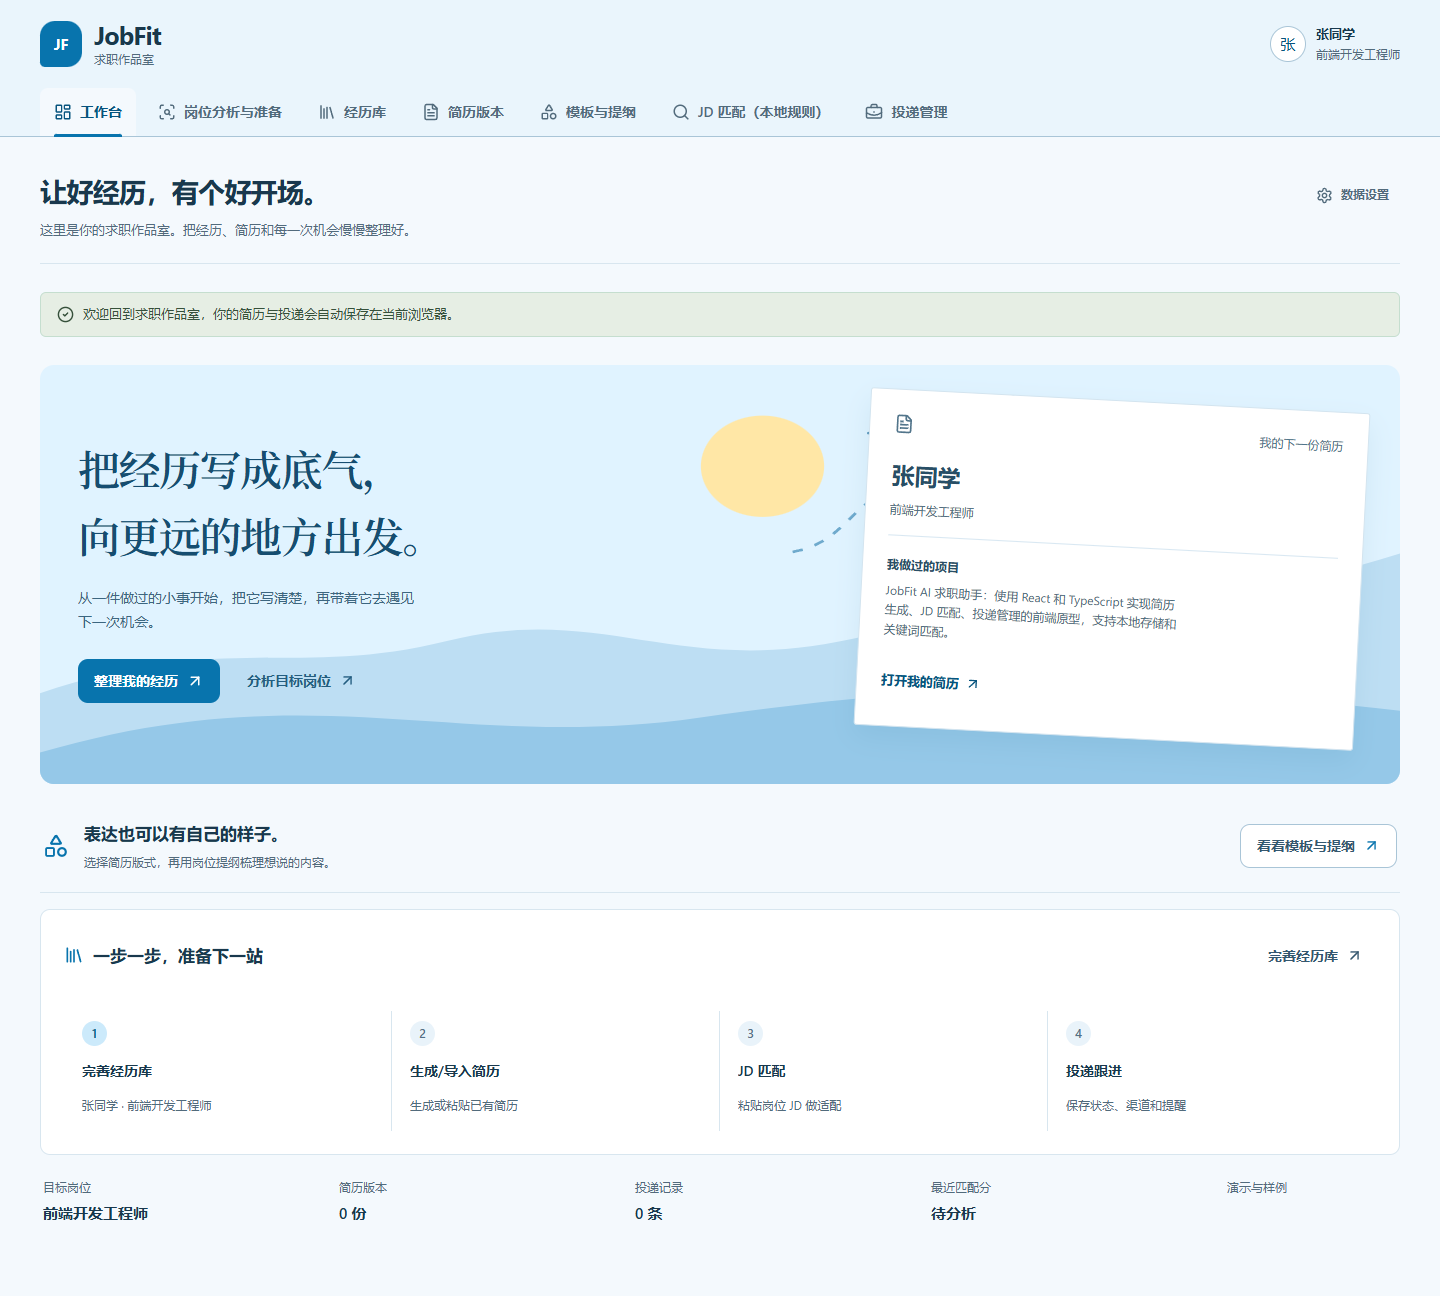
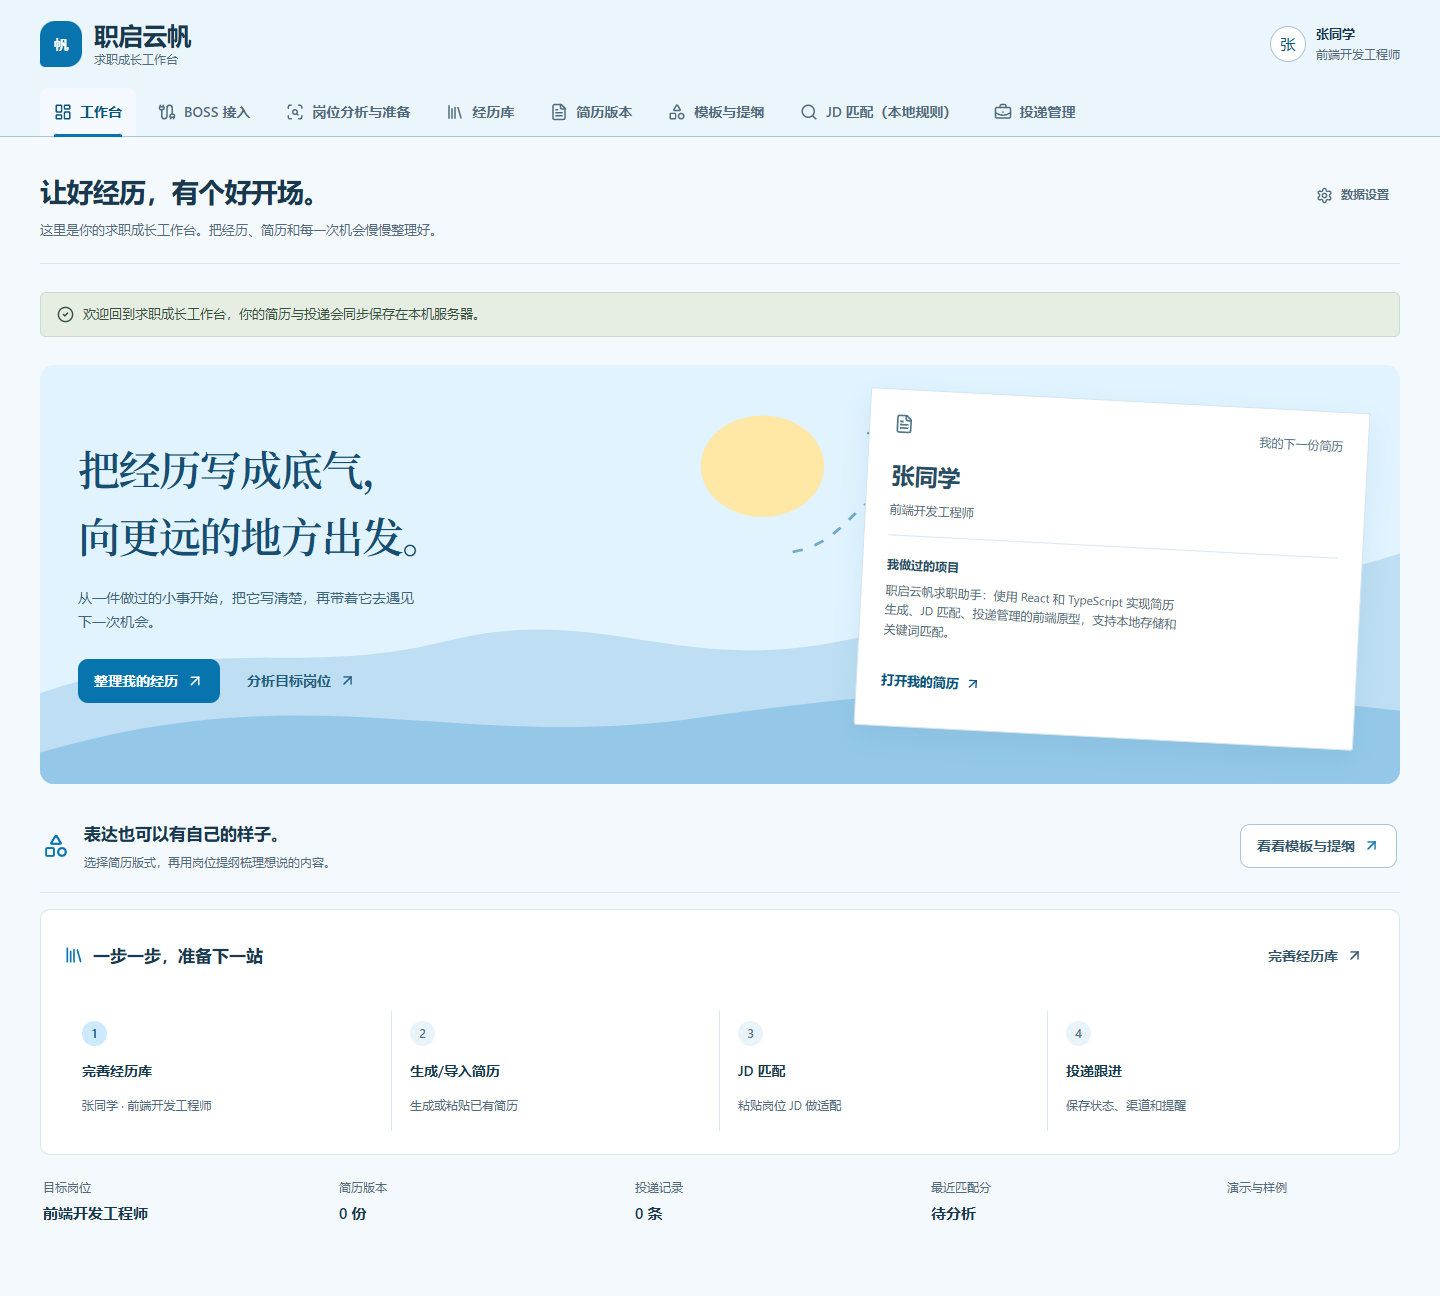
refactor: rebrand product as Zhiqi Yunfan

diff --git a/frontend/src/App.tsx b/frontend/src/App.tsx
@@ -119,7 +119,7 @@ export default function App() {
   const [renameDraft, setRenameDraft] = useState("");
   const [message, setMessageState] = useState<AppMessage | undefined>({
     id: 0,
-    text: "欢迎回到求职作品室，你的简历与投递会同步保存在本机服务器。",
+    text: "欢迎回到求职成长工作台，你的简历与投递会同步保存在本机服务器。",
     type: "success",
   });
 
@@ -144,7 +144,7 @@ export default function App() {
         markWorkspaceDirty(workspaceRevision.current);
       }
     } catch (error) {
-      console.error("Failed to save local JobFit data", error);
+      console.error("Failed to save local 职启云帆 data", error);
       setMessage("本地保存失败：浏览器存储可能已满、被隐私模式限制，或简历文本过长。请先导出数据备份。", "error");
     }
   }, [applications, profile, resumes]);
@@ -983,7 +983,7 @@ export default function App() {
     const url = URL.createObjectURL(blob);
     const link = document.createElement("a");
     link.href = url;
-    link.download = `jobfit-ai-backup-${new Date().toISOString().slice(0, 10)}.json`;
+    link.download = `zhiqi-yunfan-backup-${new Date().toISOString().slice(0, 10)}.json`;
     link.click();
     window.setTimeout(() => URL.revokeObjectURL(url), 1000);
     setMessage("已导出本地数据备份 JSON。换浏览器或换电脑时，可用它恢复经历库、简历版本和投递记录。");
@@ -1014,7 +1014,7 @@ export default function App() {
       navigateTo("workspace");
       setMessage("已导入数据备份，并完成结构校验。");
     } catch {
-      setMessage("导入失败：请选择有效的 JobFit AI JSON 备份文件。", "error");
+      setMessage("导入失败：请选择有效的职启云帆 JSON 备份文件。", "error");
     }
   }
 
@@ -1042,7 +1042,7 @@ export default function App() {
   }
 
   const pageCopy: Record<TabId, { title: string; description: string }> = {
-    workspace: { title: "让好经历，有个好开场。", description: "这里是你的求职作品室。把经历、简历和每一次机会慢慢整理好。" },
+    workspace: { title: "让好经历，有个好开场。", description: "这里是你的求职成长工作台。把经历、简历和每一次机会慢慢整理好。" },
     integration: { title: "把 BOSS 里的机会，带回自己的桌面。", description: "安装扩展、配置个人 API，再把当前页面可见的职位带入本机匹配和跟进流程。" },
     agent: { title: "把目标岗位，看得更清楚。", description: "从岗位要求到真实经历，找到值得表达的优势和下一步准备方向。" },
     profile: { title: "先把做过的事，写下来。", description: "课程项目、实习和个人作品，都是你自己的素材。" },
@@ -1089,7 +1089,7 @@ export default function App() {
     return (
       <div className="app-shell workspace-loading-shell">
         <main className="workspace-loading" role="status" aria-live="polite">
-          <div className="workspace-loading__mark">JF</div>
+          <div className="workspace-loading__mark">帆</div>
           <strong>正在恢复你的求职工作区</strong>
           <p>从本机服务器读取简历、职位和投递记录；如果服务器不可用，将自动使用浏览器缓存。</p>
           <span className="workspace-loading__bar" aria-hidden="true" />
@@ -1104,13 +1104,13 @@ export default function App() {
       <header className="site-header">
         <div className="site-header__identity">
         <div className="brand-lockup">
-          <div className="brand-mark">JF</div>
+          <div className="brand-mark">帆</div>
           <div>
-            <strong>JobFit</strong>
-            <span>求职作品室</span>
+            <strong>职启云帆</strong>
+            <span>求职成长工作台</span>
           </div>
         </div>
-        <div className="header-person"><span>{(profile.name || "我").slice(0, 1)}</span><div><strong>{profile.name || "我的作品室"}</strong><small>{profile.targetRole || "下一站，正在准备"}</small></div></div>
+        <div className="header-person"><span>{(profile.name || "我").slice(0, 1)}</span><div><strong>{profile.name || "我的工作台"}</strong><small>{profile.targetRole || "下一站，正在准备"}</small></div></div>
         <button className="nav-toggle secondary-button" type="button" aria-label={navExpanded ? "收起导航" : "展开导航"} aria-expanded={navExpanded} aria-controls="primary-navigation" onClick={() => setNavExpanded((open) => !open)}>
           {navExpanded ? <X size={20} /> : <Menu size={20} />}<span>导航</span>
         </button>

diff --git a/extension/background.js b/extension/background.js
@@ -64,14 +64,14 @@ function pickNumber(body, keys) {
 }
 
 function serviceError(body, status) {
-  if (!body) return `JobFit 服务返回 HTTP ${status}，响应为空。`;
+  if (!body) return `职启云帆服务返回 HTTP ${status}，响应为空。`;
   if (Array.isArray(body.detail)) {
     return body.detail.map((item) => item.msg || JSON.stringify(item)).join("；");
   }
   const detail = body.detail || body.error || body.message;
   if (typeof detail === "string" && detail.trim()) return detail.trim();
   if (detail && typeof detail === "object") return JSON.stringify(detail);
-  return `JobFit 服务返回 HTTP ${status}。`;
+  return `职启云帆服务返回 HTTP ${status}。`;
 }
 
 async function requestJson(url, options) {
@@ -80,7 +80,7 @@ async function requestJson(url, options) {
     response = await fetch(url, options);
   } catch (error) {
     const reason = error && error.message ? error.message : String(error);
-    throw new Error(`无法连接 JobFit 服务（${reason}）。请确认服务已启动且地址正确。`);
+    throw new Error(`无法连接 职启云帆服务（${reason}）。请确认服务已启动且地址正确。`);
   }
   const body = await readResponse(response);
   if (!response.ok) {
@@ -98,7 +98,7 @@ async function testHealth(message) {
   });
   return {
     ok: true,
-    message: "JobFit 服务连接正常。",
+    message: "职启云帆服务连接正常。",
     latencyMs: Date.now() - started,
     service: body
   };
@@ -132,7 +132,7 @@ async function collectPage(tab) {
   });
   const results = await chrome.scripting.executeScript({
     target: { tabId: tab.id },
-    func: () => globalThis.JobFitBossCollector?.collect()
+    func: () => globalThis.ZhiqiYunfanBossCollector?.collect()
   });
   return results && results[0] ? results[0].result : null;
 }
@@ -177,9 +177,9 @@ chrome.runtime.onMessage.addListener((message, _sender, sendResponse) => {
   if (!message || typeof message.type !== "string") return false;
 
   let operation;
-  if (message.type === "JOBFIT_TEST_HEALTH") {
+  if (message.type === "YUNFAN_TEST_HEALTH") {
     operation = testHealth(message);
-  } else if (message.type === "JOBFIT_COLLECT_JOBS") {
+  } else if (message.type === "YUNFAN_COLLECT_JOBS") {
     operation = collectJobs(message);
   } else {
     return false;

diff --git a/frontend/src/resumeLogic.test.ts b/frontend/src/resumeLogic.test.ts
@@ -22,7 +22,7 @@ const baseResume: ResumeVersion = {
     summary: "React and TypeScript frontend developer",
     skills: ["Python", "React", "TypeScript", "Vite"],
     education: ["Software Engineering"],
-    projects: ["Campus marketplace with search filters", "JobFit dashboard built with React and Vite"],
+    projects: ["Campus marketplace with search filters", "职启云帆 dashboard built with React and Vite"],
     experience: ["Frontend intern building reusable components"],
     awards: [],
   },
@@ -85,7 +85,7 @@ describe("resume logic", () => {
 
   it("optimizes resume sections with JD-focused ordering and highlight", () => {
     const job = {
-      company: "JobFit Labs",
+      company: "云帆科技",
       title: "Frontend Engineer",
       description: "React TypeScript Vite components user experience",
     };
@@ -94,7 +94,7 @@ describe("resume logic", () => {
 
     expect(optimized.summary).toContain("Frontend Engineer");
     expect(optimized.projects[0]).toContain("岗位相关亮点");
-    expect(optimized.projects[1]).toContain("JobFit dashboard");
+    expect(optimized.projects[1]).toContain("职启云帆 dashboard");
     expect(optimized.projects[1]).toContain("匹配关键词");
     expect(optimized.skills.slice(0, 3)).toEqual(expect.arrayContaining(["React", "TypeScript", "Vite"]));
   });
@@ -155,13 +155,13 @@ Email: jane@example.com
 Skills: React, TypeScript, Vite, CSS
 Education: Software Engineering Bachelor at Example University
 Experience: Frontend Engineer Intern built reusable form components
-Project: JobFit platform for resume matching and application tracking
+Project: 职启云帆 platform for resume matching and application tracking
 Award: Campus software competition finalist`);
 
     expect(sections.skills).toEqual(expect.arrayContaining(["React", "TypeScript", "Vite"]));
     expect(sections.education.join(" ")).toMatch(/University/i);
     expect(sections.experience.join(" ")).toMatch(/Intern/i);
-    expect(sections.projects.join(" ")).toMatch(/JobFit platform/i);
+    expect(sections.projects.join(" ")).toMatch(/职启云帆 platform/i);
     expect(sections.awards.join(" ")).toMatch(/competition/i);
   });
 

diff --git a/extension/popup.js b/extension/popup.js
@@ -79,23 +79,23 @@ async function ensureServerPermission(serverUrl) {
   // Call request directly from the click task. An async contains() check before
   // request() can consume the user gesture on stricter Chromium versions.
   const granted = await chrome.permissions.request({ origins: [pattern] });
-  if (!granted) throw new Error("需要允许扩展访问这个 JobFit 服务地址。");
+  if (!granted) throw new Error("需要允许扩展访问这个职启云帆服务地址。");
 }
 
 async function onTestHealth() {
   setBusy(testButton, true, "连接中…", "测试连接");
   setHealth("检测中", "idle");
-  setStatus("正在连接本机 JobFit 服务…");
+  setStatus("正在连接本机职启云帆服务…");
   try {
     const serverUrl = normalizeInput();
     serverInput.value = serverUrl;
     await ensureServerPermission(serverUrl);
     await chrome.storage.local.set({ [STORAGE_KEY]: serverUrl });
-    const result = await sendMessage({ type: "JOBFIT_TEST_HEALTH", serverUrl });
+    const result = await sendMessage({ type: "YUNFAN_TEST_HEALTH", serverUrl });
     if (!result.ok) throw new Error(result.error || "健康检查失败。");
     setHealth("已连接", "ok");
     const latency = Number.isFinite(result.latencyMs) ? `（${result.latencyMs} ms）` : "";
-    setStatus(`JobFit 服务连接正常${latency}`, "success");
+    setStatus(`职启云帆服务连接正常${latency}`, "success");
   } catch (error) {
     setHealth("连接失败", "error");
     setStatus(error.message || "健康检查失败。", "error");
@@ -115,7 +115,7 @@ async function onCollectJobs() {
     serverInput.value = serverUrl;
     await ensureServerPermission(serverUrl);
     await chrome.storage.local.set({ [STORAGE_KEY]: serverUrl });
-    const result = await sendMessage({ type: "JOBFIT_COLLECT_JOBS", serverUrl });
+    const result = await sendMessage({ type: "YUNFAN_COLLECT_JOBS", serverUrl });
     setResultCounts(result);
     if (!result.ok) {
       setStatus(result.error || "没有采集到可导入的职位。", "warning");

diff --git a/frontend/src/bossIntegration.ts b/frontend/src/bossIntegration.ts
@@ -134,7 +134,7 @@ async function fetchWithTimeout(input: RequestInfo | URL, init: RequestInit = {}
     return await fetch(input, { ...init, signal: controller.signal });
   } catch (error) {
     if (error instanceof DOMException && error.name === "AbortError") {
-      throw new Error("本机 JobFit 服务响应超时，请检查 Docker 状态。");
+      throw new Error("本机职启云帆服务响应超时，请检查 Docker 状态。");
     }
     throw error;
   } finally {
@@ -158,7 +158,7 @@ async function requestBossResponse(baseUrl: string, path: string, init: RequestI
       headers: { Accept: "application/json", ...(init.headers ?? {}) },
     });
   } catch {
-    throw new Error("无法连接本机 JobFit 服务，请确认 Docker 服务正在运行。");
+    throw new Error("无法连接本机职启云帆服务，请确认 Docker 服务正在运行。");
   }
   if (!response.ok) throw new Error(await readError(response, "BOSS 接入服务请求失败。"));
   return response;
@@ -223,7 +223,7 @@ export async function testProviderConnection(
       },
     }, PROVIDER_CONNECTION_TIMEOUT_MS);
   } catch {
-    throw new Error("浏览器无法连接本机 JobFit 服务，请确认 Docker 正在运行。");
+    throw new Error("浏览器无法连接本机职启云帆服务，请确认 Docker 正在运行。");
   }
   if (!response.ok) throw new Error(await readError(response, `API 测试失败（HTTP ${response.status}）。`));
   return await response.json() as { ok: boolean; model: string; mode: string; latency_ms: number };

diff --git a/frontend/src/portfolio.css b/frontend/src/portfolio.css
@@ -1,6 +1,6 @@
-/* One shared visual layer for the JobFit portfolio workspace. */
+/* One shared visual layer for the 职启云帆 portfolio workspace. */
 @font-face {
-  font-family: "JobFit Poem";
+  font-family: "Yunfan Poem";
   src: url("./assets/poem-serif.woff2") format("woff2");
   font-weight: 600;
   font-style: normal;
@@ -72,7 +72,7 @@ h1, h2, h3 { text-wrap: balance; }
 .profile-grid { gap: 23px 24px; }
 .inline-help-button { color: #07547e; background: #e1f2fc; border-radius: 4px; font-weight: 500; }
 .hero-panel { position: relative; isolation: isolate; grid-template-columns: minmax(0, 1.2fr) minmax(230px, .8fr); padding: 35px 38px; gap: 35px; background: #e0f3ff; border: 0; border-radius: 14px; box-shadow: none; overflow: visible; }
-.hero-panel h2 { max-width: 550px; font-family: "JobFit Poem", "Noto Serif SC", "Songti SC", "SimSun", serif; font-size: 42px; line-height: 1.6; font-weight: 600; letter-spacing: -.035em; color: #164d70; }
+.hero-panel h2 { max-width: 550px; font-family: "Yunfan Poem", "Noto Serif SC", "Songti SC", "SimSun", serif; font-size: 42px; line-height: 1.6; font-weight: 600; letter-spacing: -.035em; color: #164d70; }
 .hero-panel > div > p { max-width: 46ch; margin-top: 17px; color: #3c6680; font-size: 14px; }
 .hero-inline-actions { display: flex; flex-wrap: wrap; align-items: center; gap: 10px; margin-top: 25px; }
 .hero-inline-actions .ghost-button { color: #235d80; }

diff --git a/extension/popup.html b/extension/popup.html
@@ -3,15 +3,15 @@
   <head>
     <meta charset="utf-8">
     <meta name="viewport" content="width=device-width, initial-scale=1">
-    <title>JobFit BOSS 职位采集器</title>
+    <title>职启云帆 BOSS 职位采集器</title>
     <link rel="stylesheet" href="popup.css">
   </head>
   <body>
     <main class="panel">
       <header class="header">
-        <div class="brand-mark" aria-hidden="true">JF</div>
+        <div class="brand-mark" aria-hidden="true">帆</div>
         <div>
-          <p class="eyebrow">JOBFIT COLLECTOR</p>
+          <p class="eyebrow">ZHIQI YUNFAN</p>
           <h1>BOSS 职位采集</h1>
         </div>
       </header>
@@ -50,7 +50,7 @@
       </section>
 
       <p id="status" class="status" role="alert" aria-live="polite"></p>
-      <p class="privacy-note">采集结果会发送到你配置的本机 JobFit 服务。此扩展不会自动投递简历。</p>
+      <p class="privacy-note">采集结果会发送到你配置的本机职启云帆服务。此扩展不会自动投递简历。</p>
     </main>
     <script src="popup.js"></script>
   </body>

diff --git a/frontend/src/constants.ts b/frontend/src/constants.ts
@@ -48,7 +48,7 @@ export const DEFAULT_PROFILE: CandidateProfile = {
   education: "某某大学｜软件工程｜本科｜2022.09 - 2026.06｜GPA 3.6/4.0",
   skills: "React, TypeScript, JavaScript, HTML, CSS, Vite, Python, FastAPI, SQLite, Git",
   projects:
-    "JobFit AI 求职助手：使用 React 和 TypeScript 实现简历生成、JD 匹配、投递管理的前端原型，支持本地存储和关键词匹配。\n校园二手交易平台：负责商品发布、搜索筛选、订单状态页面，使用组件化方式提升复用性。",
+    "职启云帆求职助手：使用 React 和 TypeScript 实现简历生成、JD 匹配、投递管理的前端原型，支持本地存储和关键词匹配。\n校园二手交易平台：负责商品发布、搜索筛选、订单状态页面，使用组件化方式提升复用性。",
   experience:
     "前端开发实习生｜某科技公司｜2025.07 - 2025.10｜参与后台管理系统页面开发，封装表单和表格组件，配合后端联调接口。",
   awards: "校级优秀课程设计｜英语四级｜GitHub 项目作品集",

diff --git a/frontend/src/components/IntegrationCenter.tsx b/frontend/src/components/IntegrationCenter.tsx
@@ -284,7 +284,7 @@ export function IntegrationCenter({
               <ol>
                 <li>打开 Chrome 或 Edge 的扩展管理页，并开启“开发者模式”。</li>
                 <li>选择“加载已解压的扩展程序”，指向项目根目录下的 <code>extension</code> 文件夹。</li>
-                <li>打开 BOSS 直聘搜索结果或职位详情，点击 JobFit BOSS Collector。</li>
+                <li>打开 BOSS 直聘搜索结果或职位详情，点击“职启云帆 BOSS 职位采集器”。</li>
                 <li>确认服务地址为 <code>http://127.0.0.1:18001</code>，先测试连接，再采集当前页。</li>
               </ol>
             </div>

diff --git a/frontend/src/storage.test.ts b/frontend/src/storage.test.ts
@@ -11,7 +11,7 @@ const sections = {
   summary: "React frontend developer",
   skills: ["React", "TypeScript"],
   education: ["Software Engineering"],
-  projects: ["JobFit AI web app"],
+  projects: ["职启云帆 web app"],
   experience: ["Frontend intern"],
   awards: [],
 };
@@ -43,7 +43,7 @@ describe("storage normalization", () => {
       applications: [
         {
           id: "app-1",
-          job: { company: "JobFit", title: "Frontend Engineer", description: "React TypeScript" },
+          job: { company: "职启云帆", title: "Frontend Engineer", description: "React TypeScript" },
           status: "applied",
           resumeId: "resume-1",
           resumeTitle: "Stale title",

diff --git a/frontend/index.html b/frontend/index.html
@@ -4,8 +4,8 @@
     <meta charset="UTF-8" />
     <meta name="viewport" content="width=device-width, initial-scale=1.0" />
     <meta name="theme-color" content="#eaf5fc" />
-    <meta name="description" content="把经历写成底气，向更远的地方出发。整理真实经历、制作简历、拆解岗位和准备面试。" />
-    <title>JobFit · 求职作品室</title>
+    <meta name="description" content="职启云帆，把经历写成底气，向更远的地方出发。整理真实经历、制作简历、拆解岗位和准备面试。" />
+    <title>职启云帆 · 求职成长工作台</title>
   </head>
   <body>
     <div id="root"></div>

diff --git a/frontend/src/templateCatalog.ts b/frontend/src/templateCatalog.ts
@@ -131,7 +131,7 @@ export const RESUME_TEMPLATE_CATALOG: readonly ResumeTemplateDefinition[] = [
     sectionOrder: ["intent", "summary", "education", "skills", "projects", "experience", "awards"],
     description: "教育背景、基础技能和课程项目顺序清楚，适合第一次完整投递。",
     version: "2.0.0",
-    source: { ...SOURCE_OPRESUME, note: "参考中文简历的本地优先与模块化信息层级，在 JobFit 中重新实现。" },
+    source: { ...SOURCE_OPRESUME, note: "参考中文简历的本地优先与模块化信息层级，在职启云帆中重新实现。" },
   },
   {
     id: "graduate-research",
